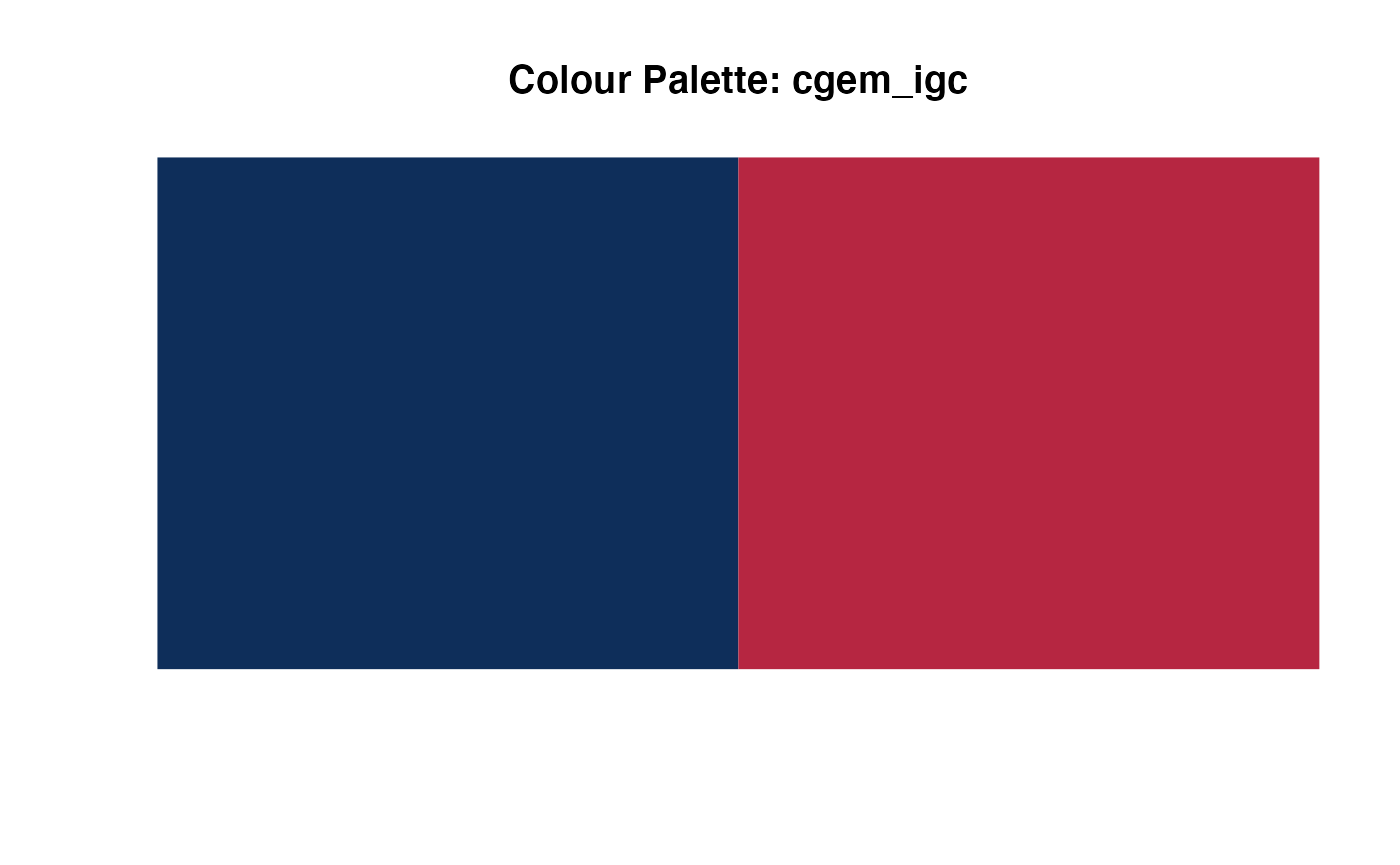
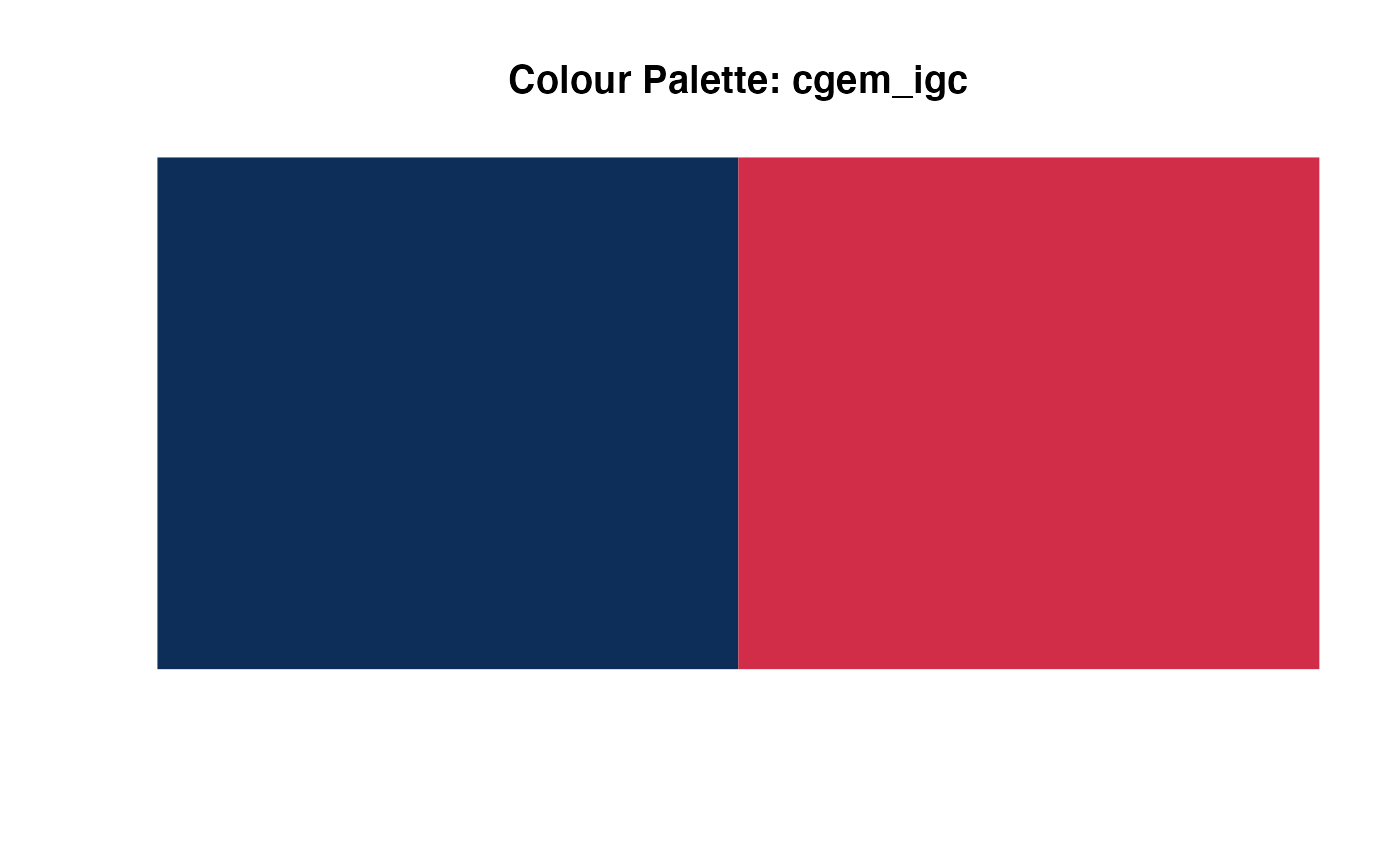
Adding new colour pallettes

Changed region(s): [[0.5221, 0.1561, 0.9521, 0.7803]]

diff --git a/docs/articles/Colour_Palettes.html b/docs/articles/Colour_Palettes.html
@@ -83,7 +83,7 @@
 
     
     
-<p><img src="Colour_Palettes_files/figure-html/setup-1.png" width="700"><img src="Colour_Palettes_files/figure-html/setup-2.png" width="700"><img src="Colour_Palettes_files/figure-html/setup-3.png" width="700"><img src="Colour_Palettes_files/figure-html/setup-4.png" width="700"><img src="Colour_Palettes_files/figure-html/setup-5.png" width="700"><img src="Colour_Palettes_files/figure-html/setup-6.png" width="700"><img src="Colour_Palettes_files/figure-html/setup-7.png" width="700"><img src="Colour_Palettes_files/figure-html/setup-8.png" width="700"><img src="Colour_Palettes_files/figure-html/setup-9.png" width="700"><img src="Colour_Palettes_files/figure-html/setup-10.png" width="700"><img src="Colour_Palettes_files/figure-html/setup-11.png" width="700"><img src="Colour_Palettes_files/figure-html/setup-12.png" width="700"><img src="Colour_Palettes_files/figure-html/setup-13.png" width="700"><img src="Colour_Palettes_files/figure-html/setup-14.png" width="700"><img src="Colour_Palettes_files/figure-html/setup-15.png" width="700"><img src="Colour_Palettes_files/figure-html/setup-16.png" width="700"><img src="Colour_Palettes_files/figure-html/setup-17.png" width="700"><img src="Colour_Palettes_files/figure-html/setup-18.png" width="700"></p>
+<p><img src="Colour_Palettes_files/figure-html/setup-1.png" width="700"><img src="Colour_Palettes_files/figure-html/setup-2.png" width="700"><img src="Colour_Palettes_files/figure-html/setup-3.png" width="700"><img src="Colour_Palettes_files/figure-html/setup-4.png" width="700"><img src="Colour_Palettes_files/figure-html/setup-5.png" width="700"><img src="Colour_Palettes_files/figure-html/setup-6.png" width="700"><img src="Colour_Palettes_files/figure-html/setup-7.png" width="700"><img src="Colour_Palettes_files/figure-html/setup-8.png" width="700"><img src="Colour_Palettes_files/figure-html/setup-9.png" width="700"><img src="Colour_Palettes_files/figure-html/setup-10.png" width="700"><img src="Colour_Palettes_files/figure-html/setup-11.png" width="700"><img src="Colour_Palettes_files/figure-html/setup-12.png" width="700"><img src="Colour_Palettes_files/figure-html/setup-13.png" width="700"><img src="Colour_Palettes_files/figure-html/setup-14.png" width="700"><img src="Colour_Palettes_files/figure-html/setup-15.png" width="700"><img src="Colour_Palettes_files/figure-html/setup-16.png" width="700"><img src="Colour_Palettes_files/figure-html/setup-17.png" width="700"><img src="Colour_Palettes_files/figure-html/setup-18.png" width="700"><img src="Colour_Palettes_files/figure-html/setup-19.png" width="700"><img src="Colour_Palettes_files/figure-html/setup-20.png" width="700"><img src="Colour_Palettes_files/figure-html/setup-21.png" width="700"><img src="Colour_Palettes_files/figure-html/setup-22.png" width="700"><img src="Colour_Palettes_files/figure-html/setup-23.png" width="700"><img src="Colour_Palettes_files/figure-html/setup-24.png" width="700"><img src="Colour_Palettes_files/figure-html/setup-25.png" width="700"><img src="Colour_Palettes_files/figure-html/setup-26.png" width="700"><img src="Colour_Palettes_files/figure-html/setup-27.png" width="700"><img src="Colour_Palettes_files/figure-html/setup-28.png" width="700"><img src="Colour_Palettes_files/figure-html/setup-29.png" width="700"><img src="Colour_Palettes_files/figure-html/setup-30.png" width="700"></p>
   </main>
 </div>
 

diff --git a/docs/reference/academic_colour_palette_names.html b/docs/reference/academic_colour_palette_names.html
@@ -73,10 +73,14 @@
     <div class="section level2">
     <h2 id="ref-examples">Examples<a class="anchor" aria-label="anchor" href="#ref-examples"></a></h2>
     <div class="sourceCode"><pre class="sourceCode r"><code><span class="r-in"><span><span class="fu">academic_colour_palette_names</span><span class="op">(</span><span class="op">)</span></span></span>
-<span class="r-out co"><span class="r-pr">#&gt;</span>  [1] "ahrc"       "bbsrc"      "cgem_igc"   "cruk"       "eastbio"   </span>
-<span class="r-out co"><span class="r-pr">#&gt;</span>  [6] "epsrc"      "nerc"       "res_eng"    "roslin_edi" "ukri_ahrc" </span>
-<span class="r-out co"><span class="r-pr">#&gt;</span> [11] "ukri_bbsrc" "ukri_epsrc" "ukri_esrc"  "ukri_iuk"   "ukri_mrc"  </span>
-<span class="r-out co"><span class="r-pr">#&gt;</span> [16] "ukri_nerc"  "ukri_re"    "ukri_stfc" </span>
+<span class="r-out co"><span class="r-pr">#&gt;</span>  [1] "ahrc"           "bbsrc"          "cgem_igc"       "cruk"          </span>
+<span class="r-out co"><span class="r-pr">#&gt;</span>  [5] "eastbio"        "epsrc"          "nerc"           "res_eng"       </span>
+<span class="r-out co"><span class="r-pr">#&gt;</span>  [9] "roslin_edi"     "ukri_ahrc"      "ukri_bbsrc"     "ukri_epsrc"    </span>
+<span class="r-out co"><span class="r-pr">#&gt;</span> [13] "ukri_esrc"      "ukri_iuk"       "ukri_mrc"       "ukri_nerc"     </span>
+<span class="r-out co"><span class="r-pr">#&gt;</span> [17] "ukri_re"        "ukri_stfc"      "uni_of_birm"    "uni_of_bristol"</span>
+<span class="r-out co"><span class="r-pr">#&gt;</span> [21] "uni_of_camb"    "uni_of_dund"    "uni_of_edi"     "uni_of_lee"    </span>
+<span class="r-out co"><span class="r-pr">#&gt;</span> [25] "uni_of_liv"     "uni_of_manc"    "uni_of_sheff"   "uni_of_soton"  </span>
+<span class="r-out co"><span class="r-pr">#&gt;</span> [29] "uni_of_st_andr" "uni_of_stirl"  </span>
 </code></pre></div>
     </div>
   </main><aside class="col-md-3"><nav id="toc"><h2>On this page</h2>

diff --git a/docs/articles/AcademicThemes.html b/docs/articles/AcademicThemes.html
@@ -116,7 +116,7 @@ specified then a list of all the colour palettes are returned.</p>
 <span><span class="co">#&gt; [1] "#293C91" "#C43089" "#E5B440"</span></span>
 <span><span class="co">#&gt; </span></span>
 <span><span class="co">#&gt; $cgem_igc</span></span>
-<span><span class="co">#&gt; [1] "#0E2E5A" "#B62641"</span></span>
+<span><span class="co">#&gt; [1] "#0E2E5A" "#D22D48"</span></span>
 <span><span class="co">#&gt; </span></span>
 <span><span class="co">#&gt; $cruk</span></span>
 <span><span class="co">#&gt; [1] "#2E0188" "#00B6EA" "#EE0286"</span></span>
